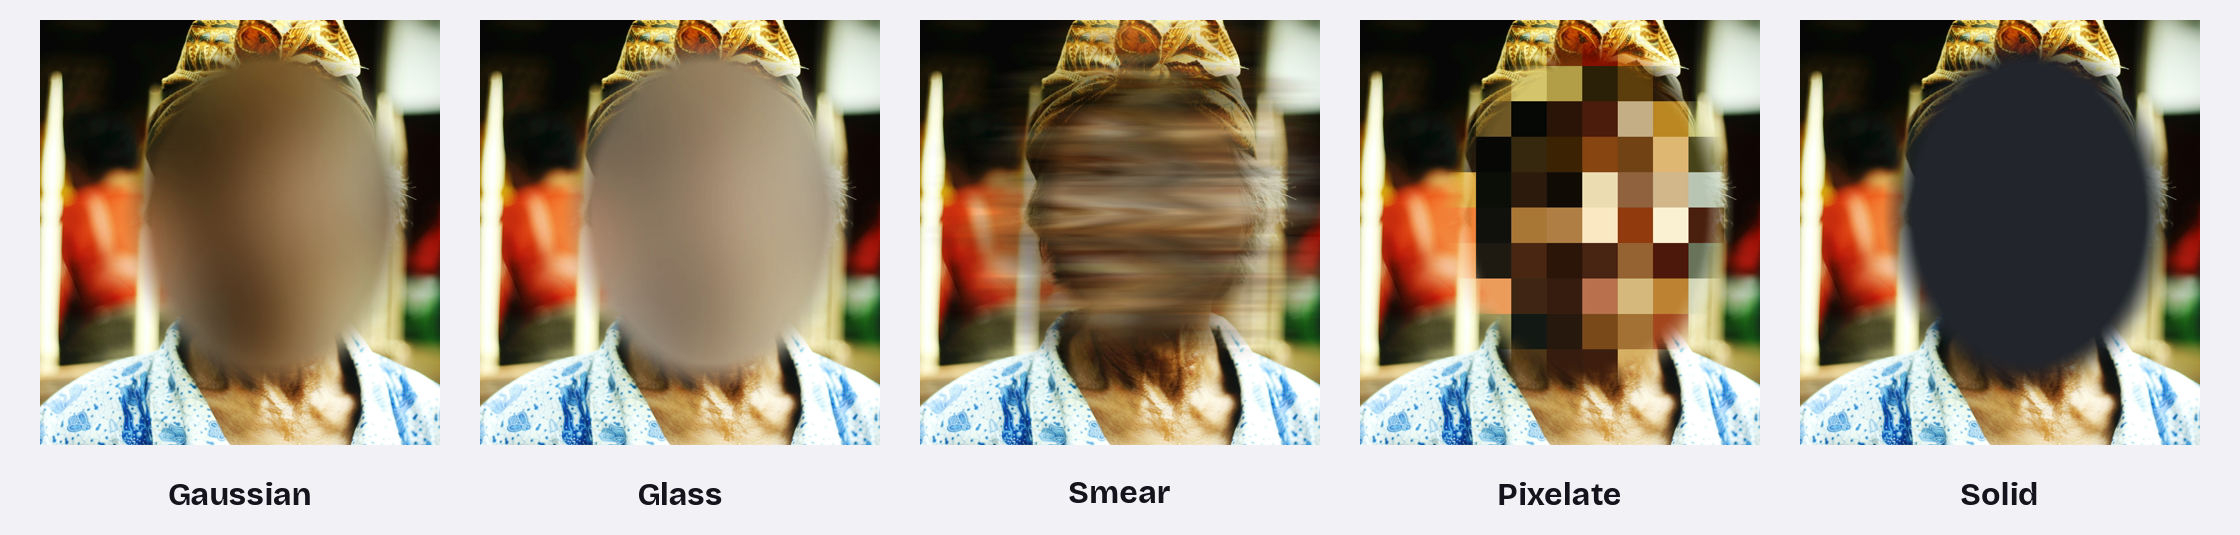
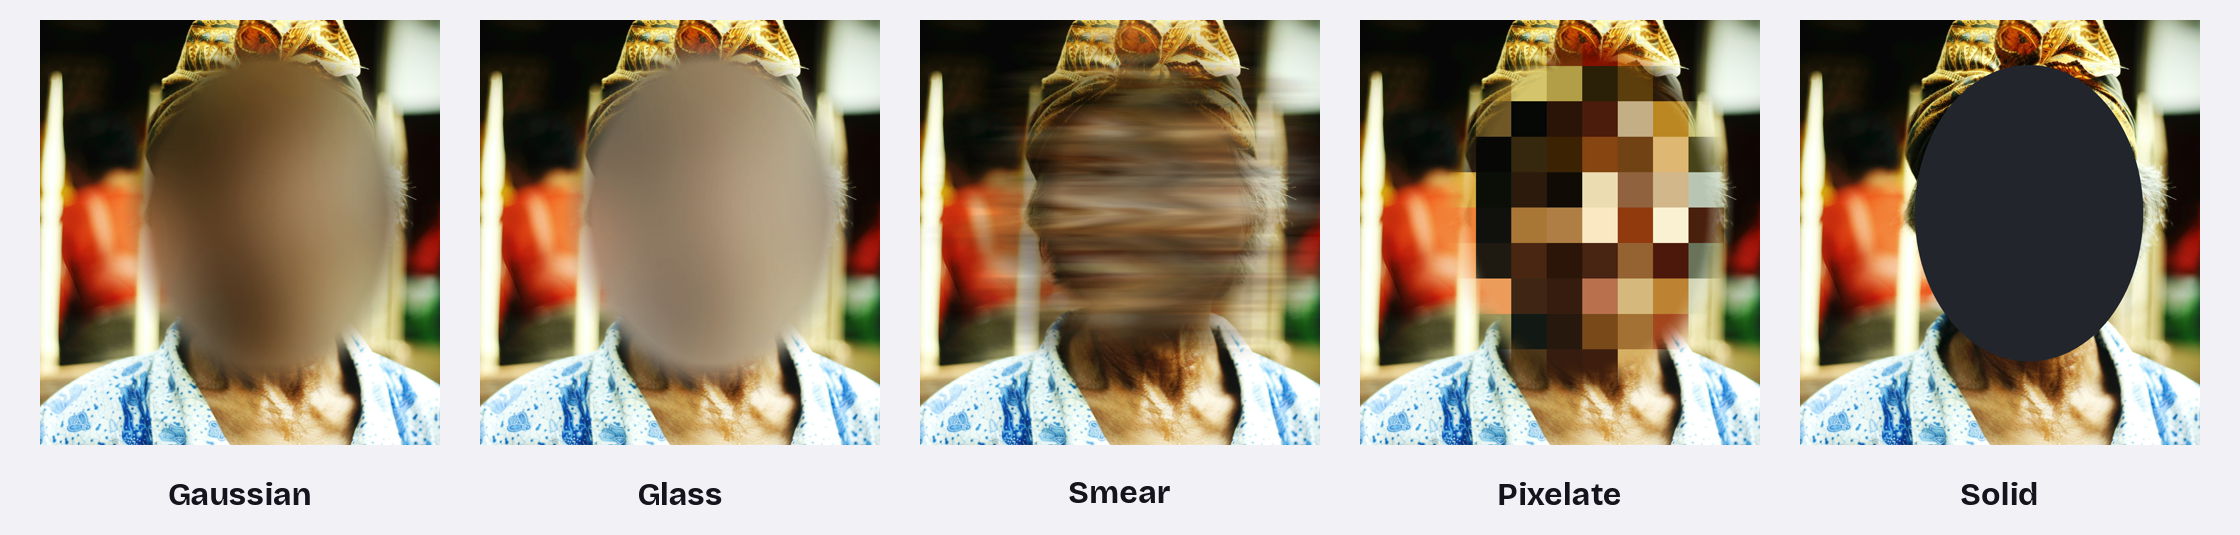
samar 1.2: hard-edged Solid, refreshed README screenshots

Changed region(s): [[0.8438, 0.0598, 0.9688, 0.7178]]

diff --git a/app/src/main/java/app/samar/effects/EffectRenderer.kt b/app/src/main/java/app/samar/effects/EffectRenderer.kt
@@ -95,6 +95,11 @@ object EffectRenderer {
             patch.recycle()
             return
         }
+        if (effect == Effect.Solid) {
+            // Solid is a full, hard-edged cover: no soft fade.
+            drawShape(canvas, region.shape, region.bounds, Paint(Paint.ANTI_ALIAS_FLAG).apply { color = solidColor })
+            return
+        }
         val size = faceSize(region)
         val outer = featheredBounds(region)
         val patchRect = Rect(

diff --git a/README.md b/README.md
@@ -31,8 +31,8 @@ You took a photo with friends, strangers or kids in it, and you want to share it
 | 🧭 **No tracking** | No accounts, no analytics, no ads, no uploads. |
 | 🧹 **Clean copies** | Saved photos have location and camera info (EXIF, GPS) removed by default. |
 | 🎨 **Five looks** | Gaussian, Glass, Smear, Pixelate and Solid, with one intensity slider. |
-| ✋ **You stay in control** | Tap any face to keep it visible, or draw over a face the detector missed. |
-| 🌗 **Light and dark** | Follows your phone, or set it yourself on Home. |
+| ✋ **You stay in control** | Auto blurs every face it finds; Manual lets you pick. Resize any blur, keep faces visible, or draw over one the detector missed. |
+| 🌗 **Light and dark** | Follows your phone, or switch it with the moon button on Home. |
 | 🔄 **Stays up to date** | Checks GitHub once a day for a new version and updates in two taps. You can turn this off. |
 
 <br>
@@ -41,13 +41,13 @@ You took a photo with friends, strangers or kids in it, and you want to share it
 
 <img src="docs/readme/effects.png" alt="The same portrait hidden with Gaussian, Glass, Smear, Pixelate and Solid">
 
-Every effect fades softly into the hair and skin around the face, so the result looks natural rather than cut out. Its strength scales with each face's size, so what you see in the preview is what gets saved.
+Every effect except Solid fades softly into the hair and skin around the face, so the result looks natural rather than cut out. Its strength scales with each face's size, so what you see in the preview is what gets saved.
 
 - **Gaussian**: a soft blur.
 - **Glass**: frosted blur with a light white tint.
 - **Smear**: a long-exposure "head shake". The head streaks sideways in fine lines and fades into the background.
 - **Pixelate**: a blocky mosaic.
-- **Solid**: a flat dark cover. Always fully opaque.
+- **Solid**: a flat, hard-edged cover in charcoal, black, white, navy or neon. Always fully opaque.
 
 <img src="docs/readme/smear.png" alt="Before and after: a smiling man in a batik headwrap, then the same photo with the Smear effect on his face">
 
@@ -60,7 +60,7 @@ Every effect fades softly into the hair and skin around the face, so the result 
 
 1. **Choose photo.** Tap *Choose photo* on Home and pick an image. samar opens it in the editor and finds the faces.
 2. **Check the faces.** Each face gets a box and a round toggle above it. A ✓ means it will be hidden; tap it to switch to ＋ and keep that face visible. Pinch or double-tap to zoom in on small faces.
-3. **Pick a look.** Scroll the effect row and drag *Intensity* until you're happy. Tap the 👁 button on the photo to compare with the original.
+3. **Pick a look.** Scroll the effect row and drag *Intensity* until you're happy (with *Solid*, pick a colour instead). Tap the 👁 button on the photo to compare with the original, or ▢ to hide the boxes and preview the result.
 4. **Add a missed face** if needed. Tap *Add missed face*, drag the shape over the face (pinch or use the handles to resize, switch between Ellipse and Rectangle), then tap *Add blur*. Undo is in the top-right corner.
 5. **Export.** Check *Before / After*, then tap **Save to gallery** (it goes to `Pictures/samar`) or **Share**.
 
@@ -74,7 +74,7 @@ Saved photos appear under *Recent* on Home. Tap one to reopen it with your edits
 
 samar isn't on Google Play yet. To install it from GitHub:
 
-1. On your Android phone, open the [latest release](https://github.com/hystericmoon/samar/releases/latest) and download **`samar-1.0.apk`**.
+1. On your Android phone, open the [latest release](https://github.com/hystericmoon/samar/releases/latest) and download **`samar-1.2.apk`**.
 2. Open the downloaded file. If Android asks, allow your browser or Files app to *install unknown apps*. You can turn this off again afterwards.
 3. Tap **Install**. Google Play Protect may say it doesn't recognise the app, because it isn't from the Play Store. Choose **Install anyway**.
 
@@ -85,7 +85,7 @@ Needs Android 8.0 (Oreo) or newer. On Android 8 and 9, samar asks for storage ac
 
 <br>
 
-Each release lists the APK's SHA-256 fingerprint. On a computer, run `shasum -a 256 samar-1.0.apk` and compare.
+Each release lists the APK's SHA-256 fingerprint. On a computer, run `shasum -a 256 samar-1.2.apk` and compare.
 
 The APK is signed with this certificate (SHA-256):
 
@@ -130,7 +130,7 @@ Open the folder in Android Studio to run it on a phone or emulator. Release buil
 
 samar doesn't collect, store or send any data. Photos are read only when you pick them and are processed in memory on your phone. The *Recent* list (small blurred thumbnails and your edits) is stored privately on your phone and is removed when you clear it or uninstall the app.
 
-**Updates.** Once a day, samar asks GitHub's public API for the latest samar release. That request contains nothing about you or your photos; GitHub sees an ordinary request, like opening the releases page. If there's a newer version, a banner appears on Home. The download is checked (it must be samar, newer, and signed with the same key) before Android's installer opens and asks you to confirm. Turn automatic checks off in *Home → About samar*.
+**Updates.** Once a day, samar asks GitHub's public API for the latest samar release. That request contains nothing about you or your photos; GitHub sees an ordinary request, like opening the releases page. If there's a newer version, a banner appears on Home. The download is checked (it must be samar, newer, and signed with the same key) before Android's installer opens and asks you to confirm. Turn automatic checks off in *Home → ⓘ About samar*. To update now, open *About samar* and tap *Check for updates*.
 
 **ML Kit.** ML Kit includes a usage-logging component. samar removes the route it would upload through, so it has nowhere to send anything.
 
@@ -140,7 +140,7 @@ samar doesn't collect, store or send any data. Photos are read only when you pic
 
 - Fonts: Bricolage Grotesque and Instrument Sans, under the [SIL Open Font License 1.1](app/src/main/res/raw).
 - Face detection: [Google ML Kit](https://developers.google.com/ml-kit/vision/face-detection) (bundled model).
-- Every library's licence is listed in the app under *Home → Open-source notices*.
+- Every library's licence is listed in the app under *Home → ⓘ About samar → Open-source notices*.
 - Photos in this README are from Unsplash, free to use under the [Unsplash License](https://unsplash.com/license): [four friends](https://unsplash.com/photos/four-men-pose-for-a-photo-outside-LNoV6ykJUPo) by setengah limasore and [portrait](https://unsplash.com/photos/man-wearing-turban-smiling-au84UJ1KmNU) by gede adhiputra.
 
 ## Licence

diff --git a/DESIGN_BRIEF.md b/DESIGN_BRIEF.md
@@ -29,12 +29,12 @@ Notes:
 
 - Smear: use an AGSL shader on Android 13+ and a CPU version with the same recipe on older phones. Show a one-line note when Smear is selected: it is a stylistic effect and hides identity less reliably than Solid or Pixelate.
 - Mask each face with a slightly padded ellipse (about 20% larger than the detected box) so hairline and ears are covered.
-- Soft edges: every effect fades out over about 15% of the face's size just outside the area, so it blends into hair and skin. Inside the area it stays fully opaque.
+- Soft edges: every effect except Solid fades out over about 15% of the face's size just outside the area, so it blends into hair and skin. Inside the area it stays fully opaque.
 - Smear has its own edge: streaks carry only the head's colours (the background is never dragged in), cover the hair a little above the face box, and fade out softly. The face is fully covered except across the outer padding rim, where it eases off so no oval outline shows. Streak length 50–140% and tails 30–55% of the face width, from 0 to 100% intensity; slightly darker than the original.
 - Rotate the image by its EXIF orientation before detection, or boxes will be misaligned on portrait photos.
 - Use a downscaled copy for the live preview (1600px long edge). Run the full-resolution pass only on export.
 - Strength scales with each face's size, so the saved photo looks the same as the preview.
-- Solid is always a full, opaque cover. When Solid is selected, the intensity slider is replaced by a Colour row ("Always full"): Charcoal #22252B (default), Black, White, Navy #1F06AC, Neon #E3EF4F. 48dp targets, the chosen one gets an emphasis ring and a check. Saved with the photo in Recent and undoable.
+- Solid is always a full, opaque cover with a hard edge (no soft fade). When Solid is selected, the intensity slider is replaced by a Colour row ("Always full"): Charcoal #22252B (default), Black, White, Navy #1F06AC, Neon #E3EF4F. 48dp targets, the chosen one gets an emphasis ring and a check. Saved with the photo in Recent and undoable.
 - Smear note text: "Smear is a stylistic effect. Solid or Pixelate hide identity more reliably."
 
 ## Screens
